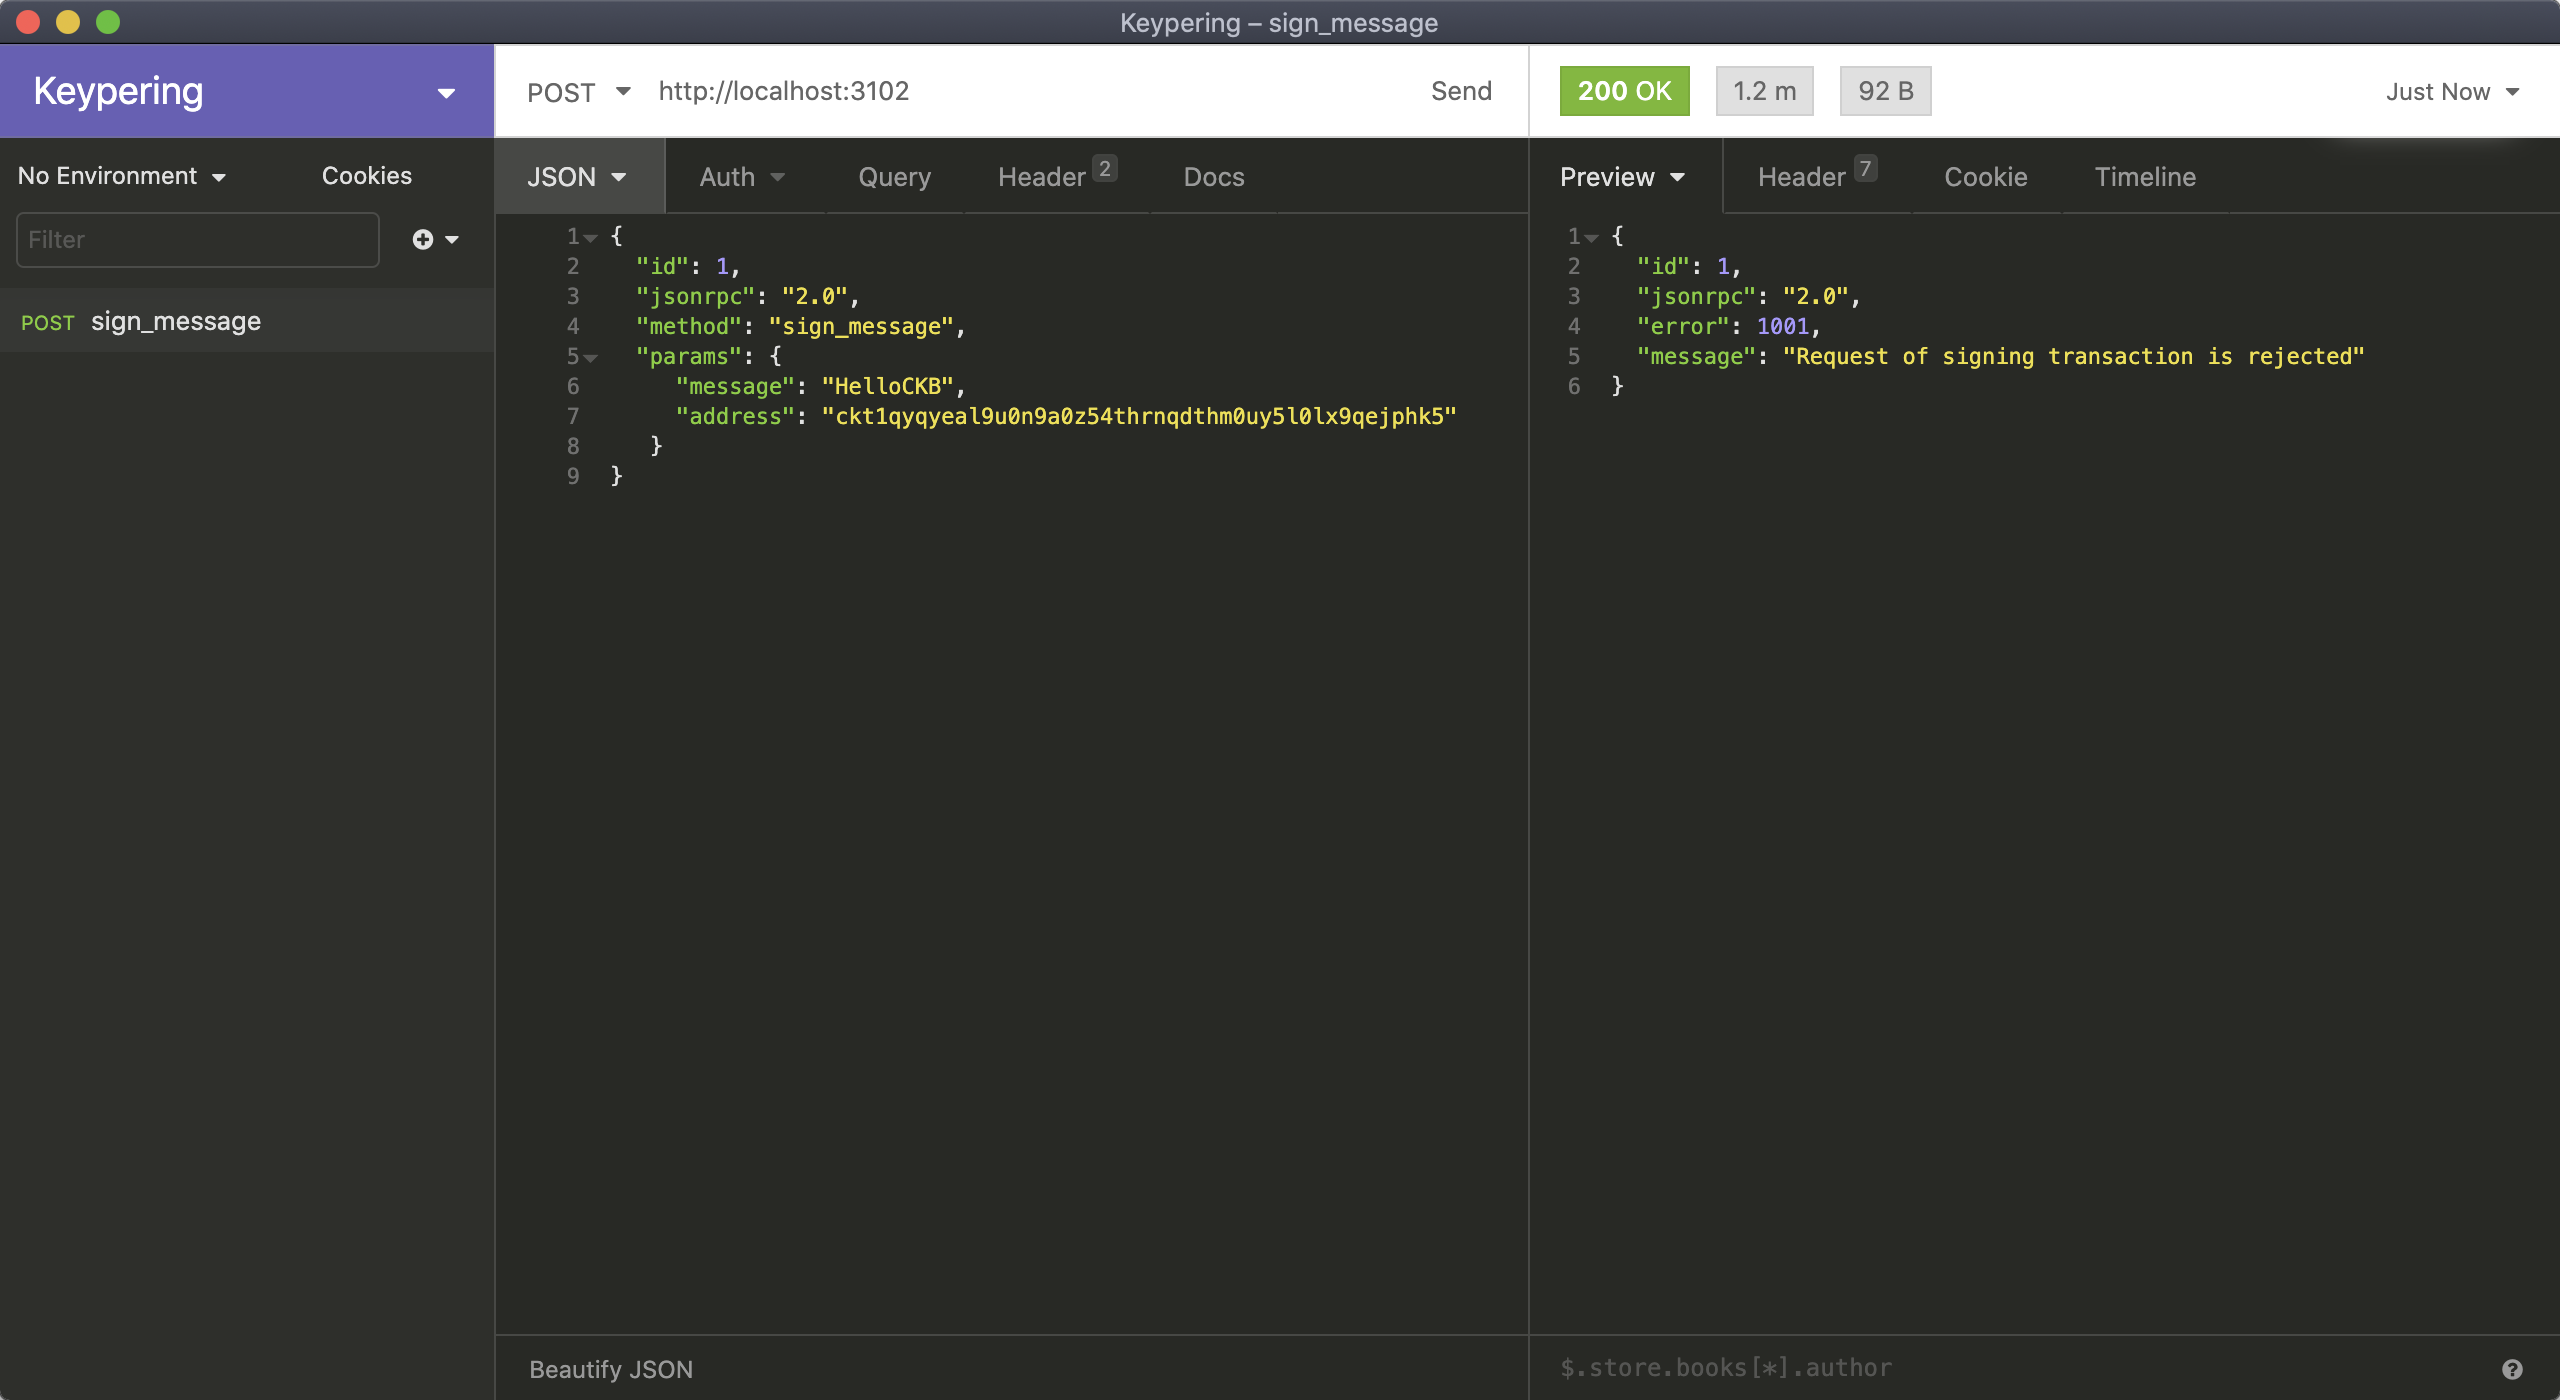
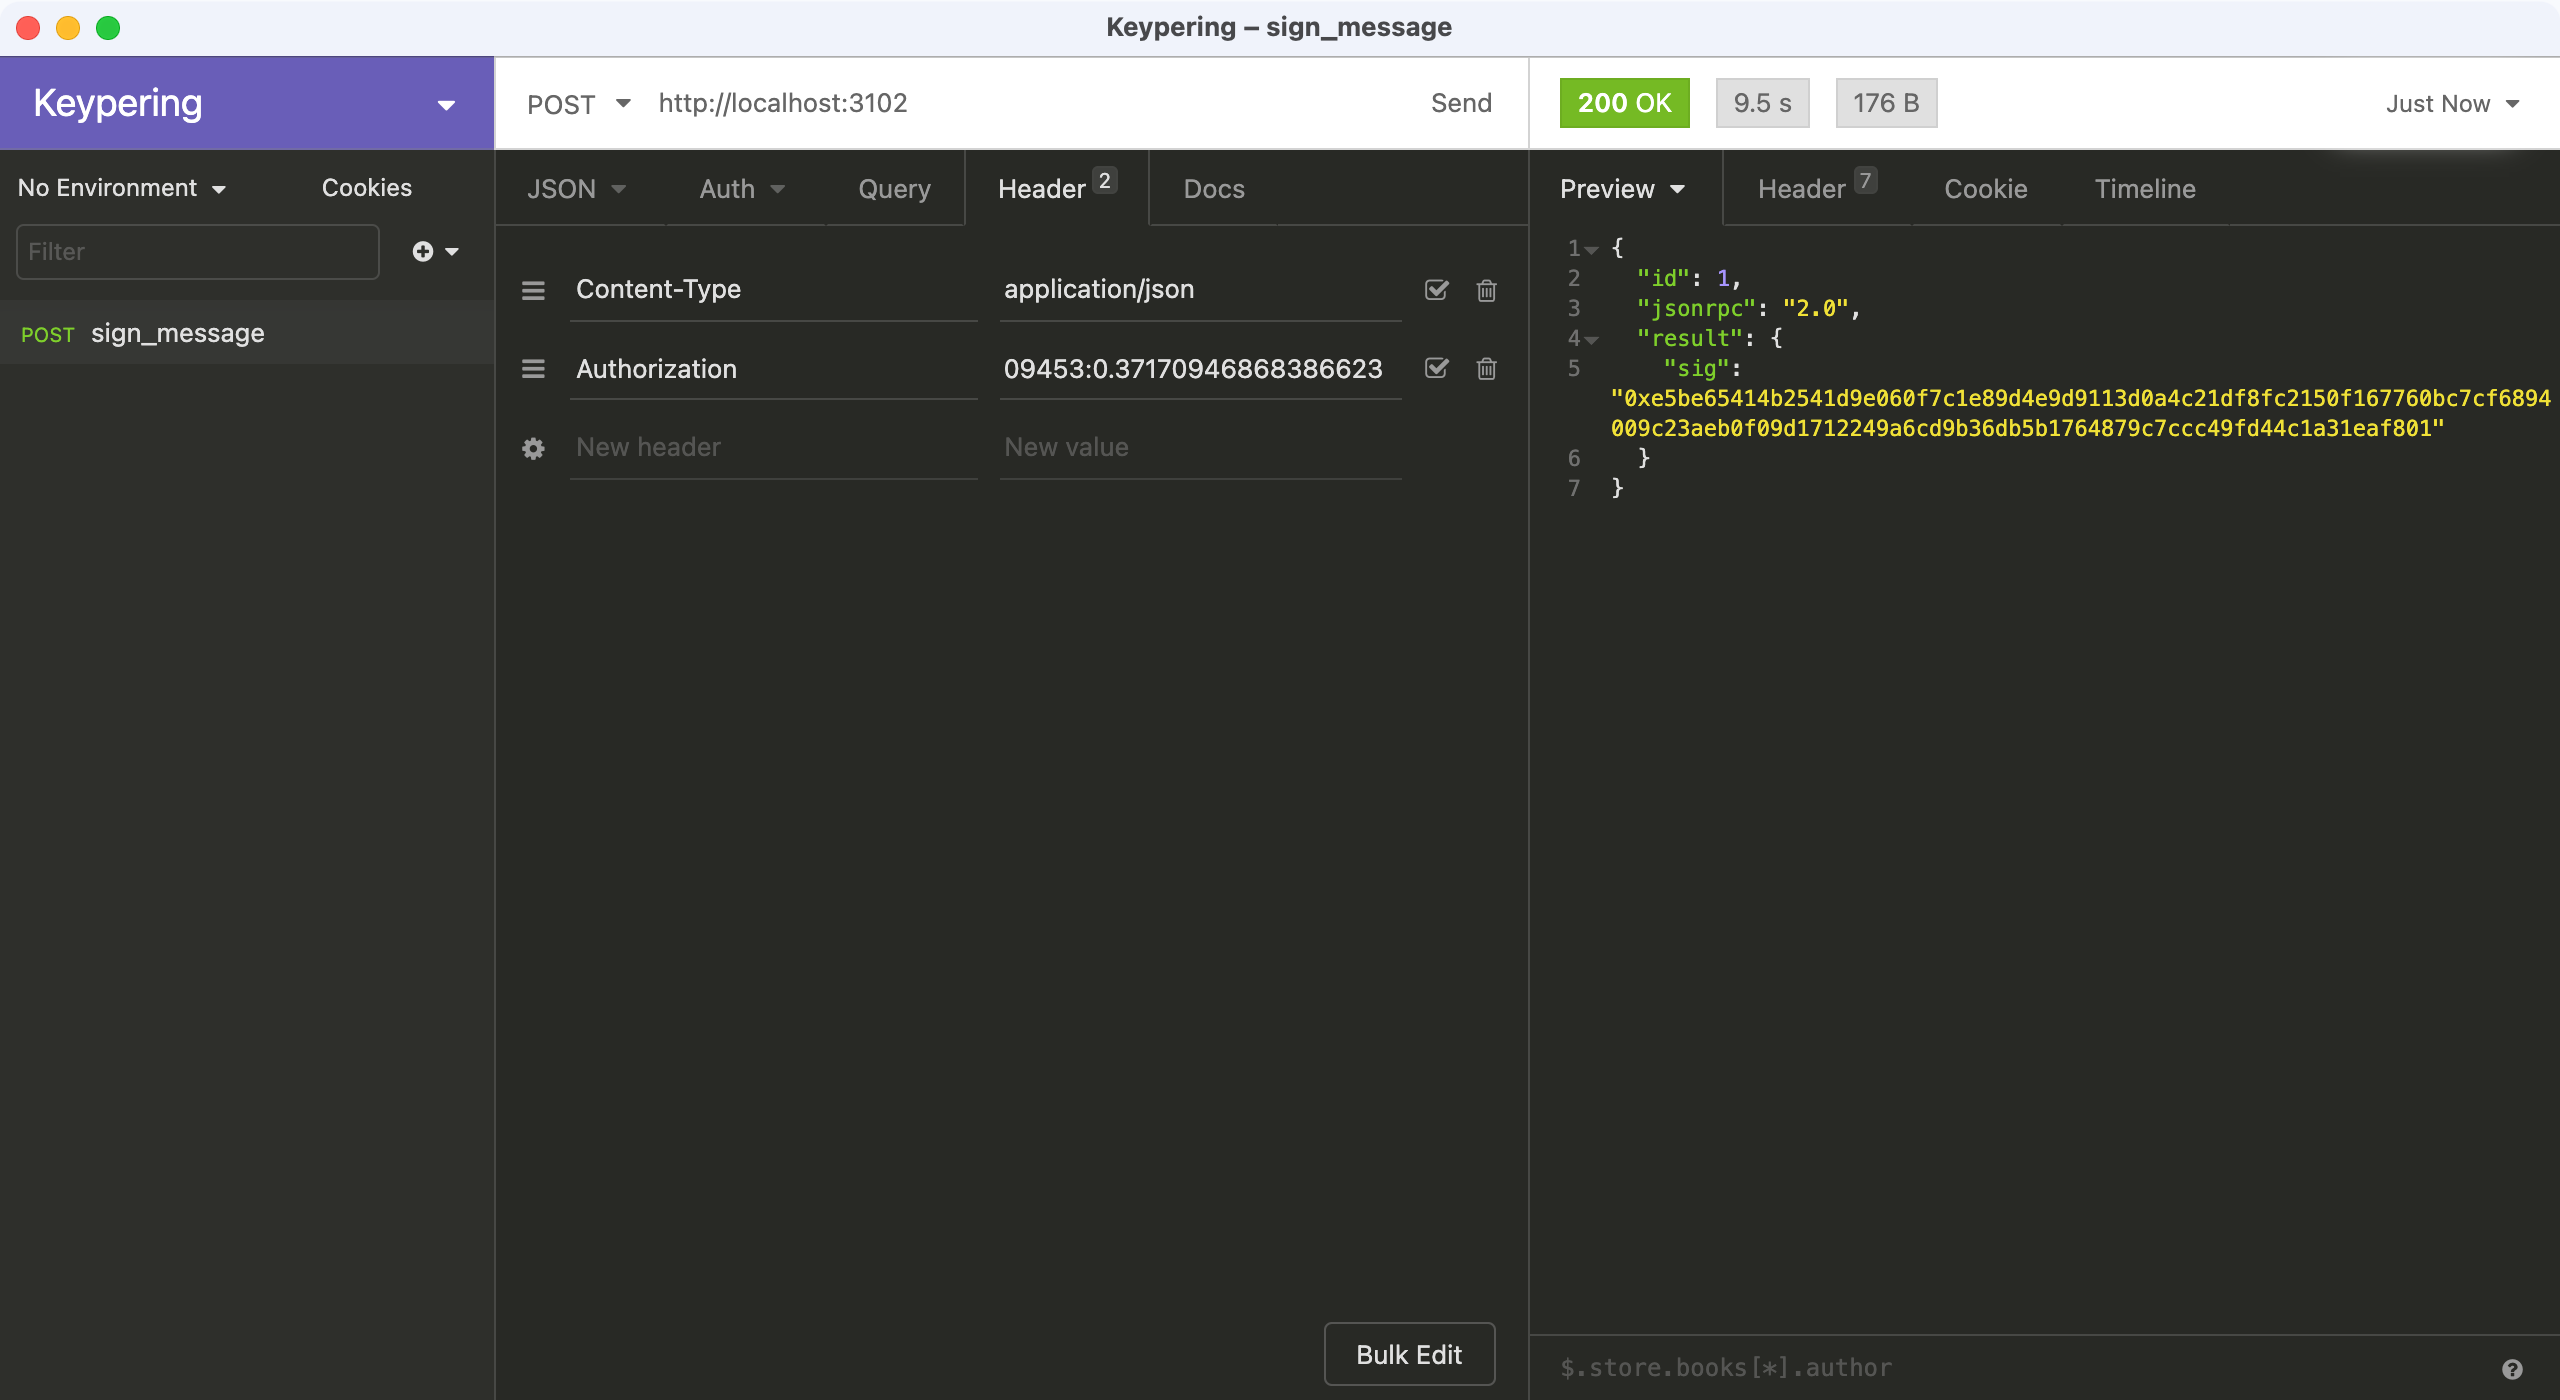
doc: add networkId to auth response

diff --git a/docs/protocol.md b/docs/protocol.md
@@ -8,6 +8,7 @@ QueryAddresses: query_addresses
 SignTransaction: sign_transaction
 SendTransaction: send_transaction
 SignAndSendTransactoin: sign_and_send_transaction
+signMessage: sign_message
 ```
 
 ## Error Code
@@ -59,6 +60,7 @@ id: 1,
 jsonrpc: '2.0'
 result:
   token: token generated by keypering agency    # token used in other requests
+  networkId: keypering connected network # ckb, ckb_test, ckb_dev
 ```
 
 ### Query Addresses
@@ -321,4 +323,26 @@ result:
     witnesses:
[2 lines of base64/hex data omitted]
+```
+
+### Sign Message
+
+- Request
+
+```yml
+id: 1
+jsonrpc: '2.0'
+method: sign_message
+params:
+  message: 'HelloCKB'
+  address: 'ckt1qyqyeal9u0n9a0z54thrnqdthm0uy5l0lx9qejphk5'
+```
+
+- Response
+
+```yml
+id: 1
+jsonrpc: '2.0'
+result:
[1 lines of base64/hex data omitted]
 ```
